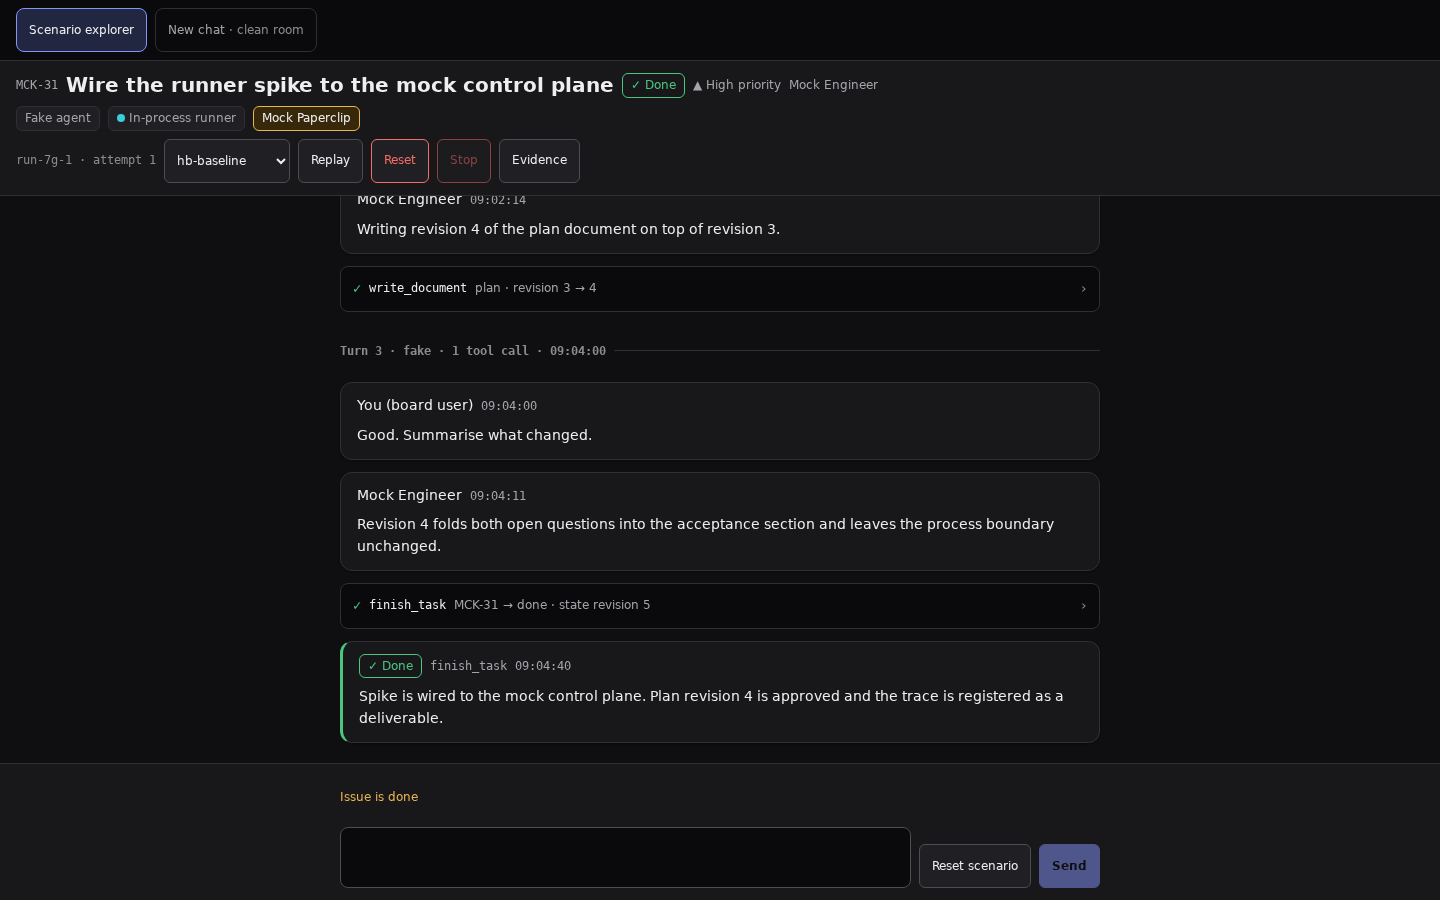
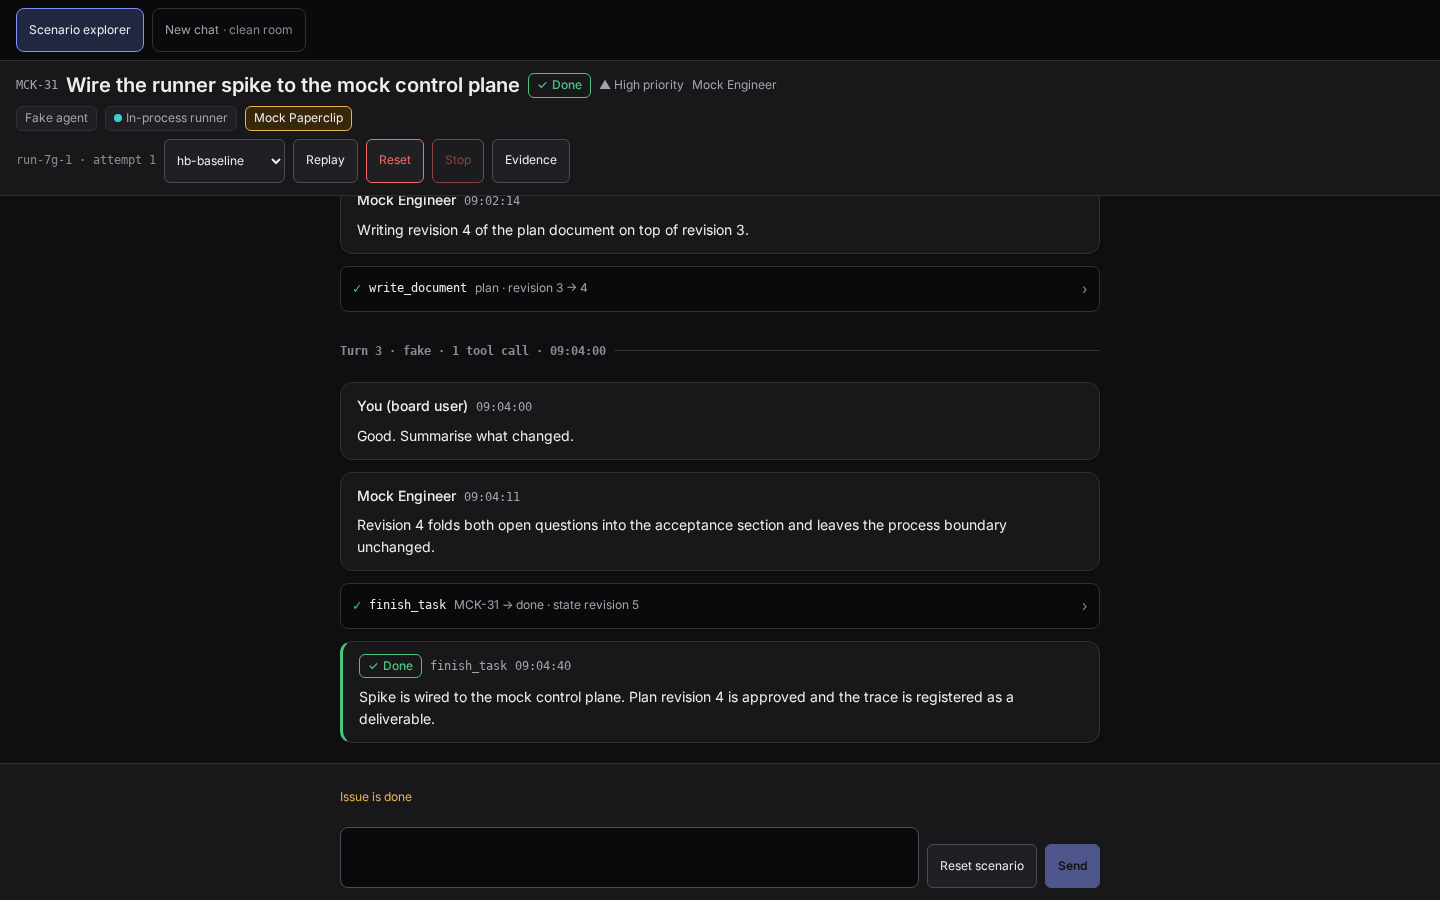
fix(runner): re-record the Phase 7 UI matrix under the Inter font environment
The committed matrix was captured while fontconfig resolved the sans stack
to the DejaVu Sans fallback; ambient user-font churn then made Inter (the
stack's first choice) resolve, drifting all 24 shots at once. Re-recorded
under Chromium 151.0.7922.34 with Inter active, taught the recorder to
refuse to record or compare when Inter does not resolve distinctly, and
wrote the recording environment into the generated evidence index.

PAP-17001

diff --git a/packages/paperclip-runner/docs/phase-07-issue-thread-ui.md b/packages/paperclip-runner/docs/phase-07-issue-thread-ui.md
@@ -168,11 +168,17 @@ Hosts without the Playwright chromium system libraries can either run
 `pnpm --filter @paperclipai/paperclip-runner verify:rootless` or set
 `PAPERCLIP_RUNNER_CHROMIUM_PATH` to a preinstalled Chromium.
 
-The committed PNGs are pinned to the Chromium build listed in the Phase 7G
-verification evidence, so `check:phase7:ui` needs that same browser. Point
-`PAPERCLIP_RUNNER_CHROMIUM_PATH` at it before comparing; a different build makes
-every shot mismatch at once, which reads like a regression but is not one. The
-check prints the Chromium version it recorded with whenever it reports drift.
+The committed PNGs are pinned to the Chromium build and font environment listed
+in `knowledge/evidence/phase-07/ui/index.md`, so `check:phase7:ui` needs that
+same browser and font set. Point `PAPERCLIP_RUNNER_CHROMIUM_PATH` at the
+recorded browser before comparing — and when that path is the agent-browser
+wrapper, also set `PAPERCLIP_CHROMIUM_BIN` to the exact binary, because the
+wrapper otherwise picks the newest installed Playwright Chromium. A different
+build or font set makes every shot mismatch at once, which reads like a
+regression but is not one. The recorder probes that `Inter` resolves distinctly
+from the DejaVu Sans fallback and refuses to record or compare when it does
+not; the drift report prints the Chromium version and font probe it recorded
+with.
 
 ## Accessibility
 

diff --git a/packages/paperclip-runner/knowledge/evidence/phase-07/ui/index.md b/packages/paperclip-runner/knowledge/evidence/phase-07/ui/index.md
@@ -27,3 +27,12 @@ Deterministic `fake` mode; no provider, runner, or credential is involved.
 - `thread-baseline--mobile.png`
 - `turn-streaming--desktop.png`
 - `turn-streaming--mobile.png`
+
+## Recording environment
+
+- Chromium 151.0.7922.34 — pin the exact binary with `PAPERCLIP_CHROMIUM_BIN`
+  (honoured by the agent-browser wrapper) alongside
+  `PAPERCLIP_RUNNER_CHROMIUM_PATH`.
+- Sans stack resolves to Inter (probe: Inter 549px vs
+  DejaVu Sans 641px for the title string). The recorder
+  refuses to run when Inter does not resolve.
